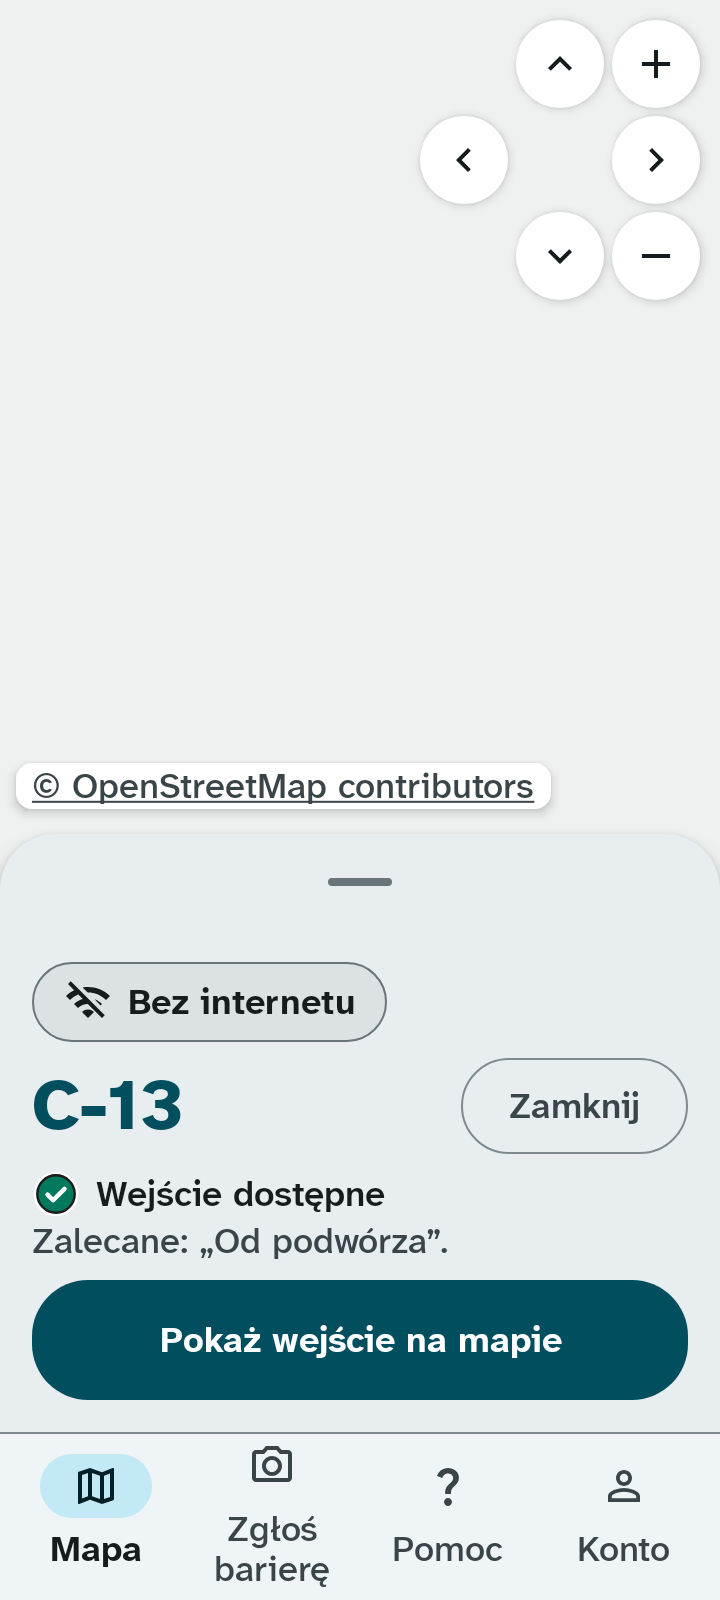
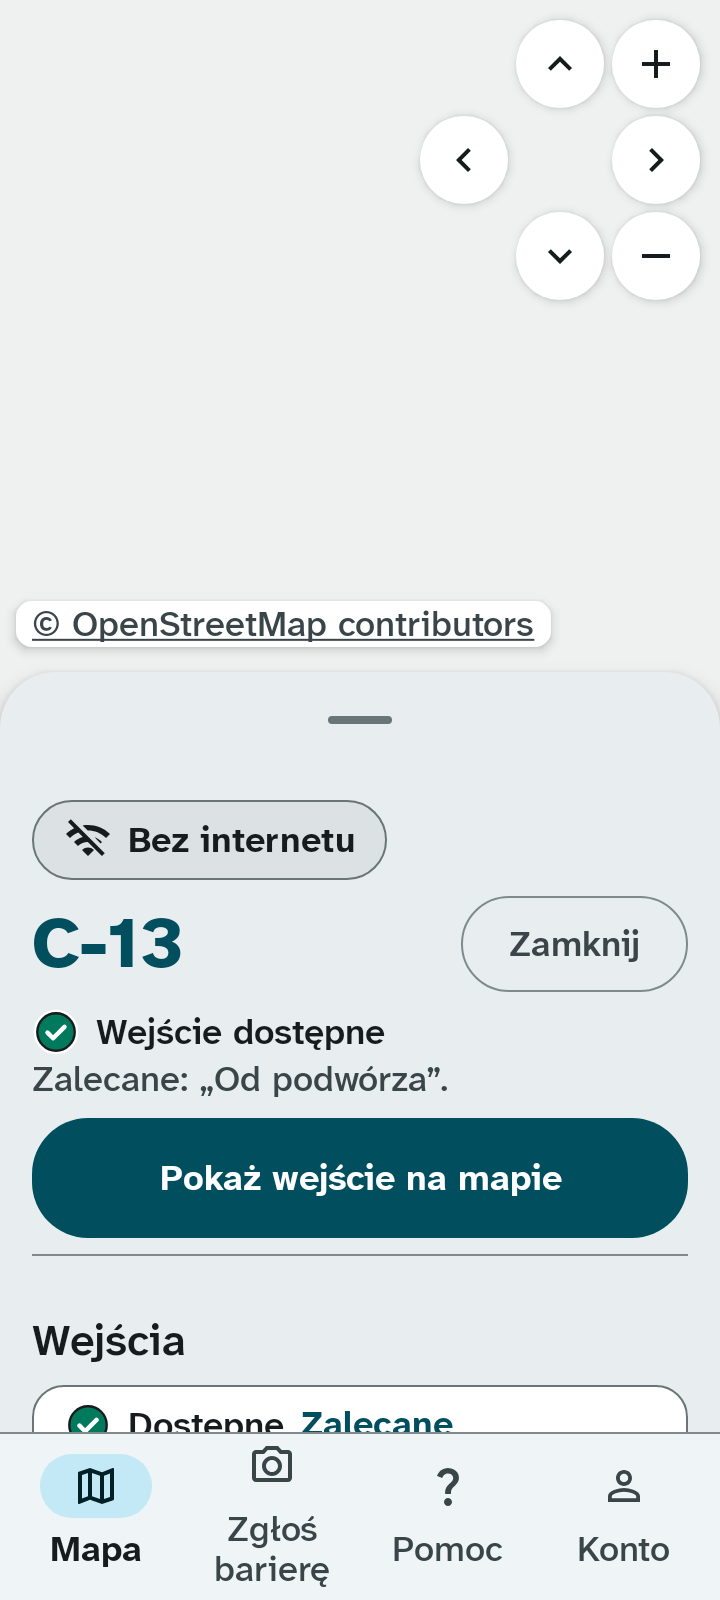
refactor(android): wystający nagłówek w pliku grupy „Wejścia” i nowe zrzuty arkusza

diff --git a/android/feature/map/src/main/kotlin/io/github/dostepnykampus/feature/map/building/EntrancesGroup.kt b/android/feature/map/src/main/kotlin/io/github/dostepnykampus/feature/map/building/EntrancesGroup.kt
@@ -1,13 +1,15 @@
 /*
  * Dostępny Kampus
- * Author: Vladyslav Yevkov
+ * Author: Yevhenii Lukianenko, Vladyslav Yevkov
  * Copyright (c) 2026 Vladyslav Yevkov, Myroslav Hryniuka, Yevhenii Lukianenko
  */
 package io.github.dostepnykampus.feature.map.building
 
 import androidx.compose.foundation.clickable
+import androidx.compose.foundation.layout.Arrangement
 import androidx.compose.foundation.layout.Box
 import androidx.compose.foundation.layout.Column
+import androidx.compose.foundation.layout.FlowRow
 import androidx.compose.foundation.layout.fillMaxWidth
 import androidx.compose.foundation.layout.height
 import androidx.compose.foundation.layout.padding
@@ -29,6 +31,10 @@ import androidx.compose.ui.unit.Dp
 import androidx.compose.ui.unit.dp
 import io.github.dostepnykampus.core.designsystem.GroupContainer
 import io.github.dostepnykampus.core.designsystem.Odstepy
+import io.github.dostepnykampus.core.designsystem.Typografia
+import io.github.dostepnykampus.core.designsystem.bar.PinnedButton
+import io.github.dostepnykampus.core.designsystem.bar.PinnedButtonKind
+import io.github.dostepnykampus.core.designsystem.marking.MarkingSign
 import io.github.dostepnykampus.feature.map.R
 
 private val NEXT_LINE_PEEK_HEIGHT = 24.dp
@@ -90,6 +96,63 @@ private fun CutGroup(title: String, card: BuildingCardUiState.Ready, shown: Dp) 
             } else {
                 EntranceRow(listed = first, withAssessment = false, onShowEntrance = null, onReportEntrance = null)
             }
+        }
+    }
+}
+
+/**
+ * Wiersz wejścia na karcie budynku i na liście wejść: oznaczenie, znacznik „zalecane”, nazwa, ocena i przyciski.
+ * Jeden układ dla obu ekranów, więc wygląd i opis dla czytnika ekranu się nie rozjadą.
+ *
+ * Wymagania: US2, US17
+ *
+ * @param listed wejście z kolejnością i znacznikiem „zalecane”
+ * @param withAssessment czy pokazać ocenę wejścia; bez niej, gdy wszystkie wejścia mają tę samą ocenę nad listą
+ * @param onShowEntrance „Pokaż” na mapie; `null` ukrywa przycisk
+ * @param onReportEntrance „Zgłoś” barierę wejścia; `null` ukrywa przycisk
+ */
+@Composable
+internal fun EntranceRow(
+    listed: OrderedEntrance,
+    withAssessment: Boolean,
+    onShowEntrance: ((String) -> Unit)?,
+    onReportEntrance: ((String) -> Unit)?,
+) {
+    val title = listed.entrance.name ?: stringResource(R.string.karta_bez_nazwy)
+    val spokenShow = stringResource(R.string.wizyta_pokaz_czytaj, title)
+    val spokenReport = stringResource(R.string.karta_zglos_czytaj, title)
+    Column(verticalArrangement = Arrangement.spacedBy(Odstepy.xs)) {
+        FlowRow(
+            horizontalArrangement = Arrangement.spacedBy(Odstepy.s),
+            verticalArrangement = Arrangement.spacedBy(Odstepy.xs),
+        ) {
+            MarkingSign(marking = listed.entrance.marking)
+            if (listed.isRecommended) {
+                Text(
+                    text = stringResource(R.string.karta_zalecane),
+                    color = MaterialTheme.colorScheme.primary,
+                    fontWeight = Typografia.wyroznienieWaga,
+                    style = MaterialTheme.typography.labelLarge,
+                )
+            }
+        }
+        Text(text = title, fontWeight = Typografia.wyroznienieWaga, style = MaterialTheme.typography.titleMedium)
+        if (withAssessment) listed.entrance.assessment?.let { AssessmentLine(it) }
+        onShowEntrance?.let { show ->
+            PinnedButton(
+                text = stringResource(R.string.wizyta_pokaz),
+                onClick = { show(listed.entrance.id) },
+                modifier = Modifier.fillMaxWidth().semantics { contentDescription = spokenShow },
+                kind = PinnedButtonKind.Tonal,
+            )
+        }
+        onReportEntrance?.let { report ->
+            PinnedButton(
+                text = stringResource(R.string.karta_zglos),
+                onClick = { report(listed.entrance.id) },
+                modifier = Modifier.fillMaxWidth().semantics { contentDescription = spokenReport },
+                kind = PinnedButtonKind.Tonal,
+            )
         }
     }
 }
